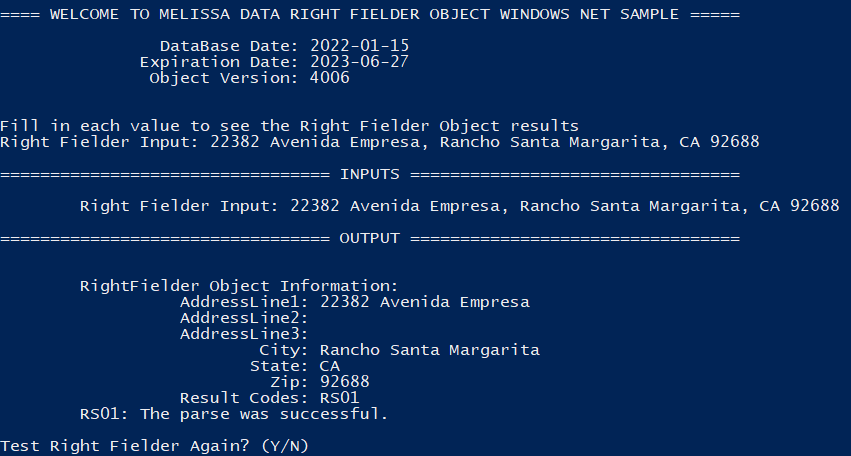
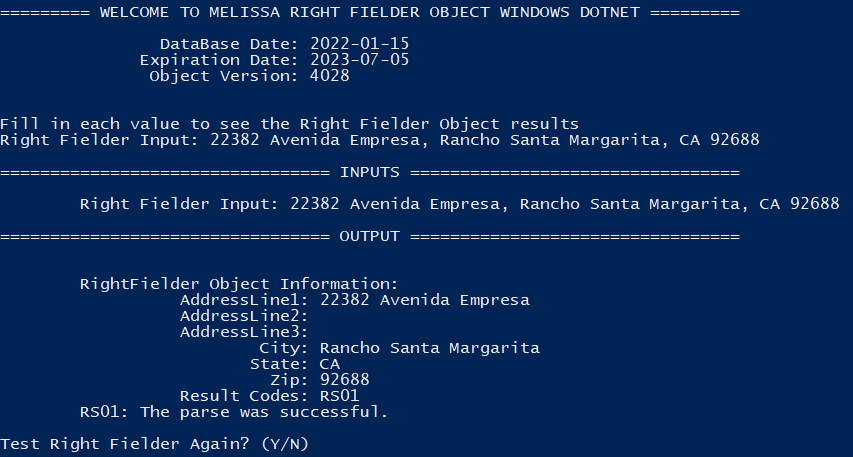
Commit C# Dotnet code for Right Fielder Object with release notes

diff --git a/MelissaRightFielderObjectWindowsDotnet/Program.cs b/MelissaRightFielderObjectWindowsDotnet/Program.cs
@@ -5,7 +5,7 @@ using System.IO;
 using System.Reflection;
 using MelissaData;
 
-namespace MelissaDataRightFielderObjectWindowsNETSample
+namespace MelissaRightFielderObjectWindowsDotnet
 {
   class Program
   {
@@ -51,7 +51,7 @@ namespace MelissaDataRightFielderObjectWindowsNETSample
 
     static void RunAsConsole(string license, string testInput, string dataPath)
     {
-      Console.WriteLine("\n\n==== WELCOME TO MELISSA DATA RIGHT FIELDER OBJECT WINDOWS NET SAMPLE =====\n");
+      Console.WriteLine("\n\n========= WELCOME TO MELISSA RIGHT FIELDER OBJECT WINDOWS DOTNET =========\n");
 
       RightFielderObject rightFielderObject = new RightFielderObject(license, dataPath);
 
@@ -83,15 +83,6 @@ namespace MelissaDataRightFielderObjectWindowsNETSample
         // Print user input
         Console.WriteLine("\n================================= INPUTS =================================\n");
         Console.WriteLine($"\tRight Fielder Input: {dataContainer.Input}");
-        //Console.WriteLine($"\t               Address: {dataContainer.Address}");
-        //Console.WriteLine($"\t          CityStateZip: {dataContainer.CityStateZip}");
-        //Console.WriteLine($"\t               Company: {dataContainer.Company}");
-        //Console.WriteLine($"\t               Country: {dataContainer.Country}");
-        //Console.WriteLine($"\t            Department: {dataContainer.Department}");
-        //Console.WriteLine($"\t                 Email: {dataContainer.Email}");
-        //Console.WriteLine($"\t              FullName: {dataContainer.FullName}");
-        //Console.WriteLine($"\t                 Phone: {dataContainer.Phone}");
-        //Console.WriteLine($"\t                   Url: {dataContainer.Url}");
 
         // Execute Right Fielder Object
         rightFielderObject.ExecuteObjectAndResultCodes(ref dataContainer);
@@ -162,16 +153,16 @@ namespace MelissaDataRightFielderObjectWindowsNETSample
           }
         }
       }
-      Console.WriteLine("\n================ THANK YOU FOR USING MELISSA DATA NET OBJECT ===============\n");
+      Console.WriteLine("\n================ THANK YOU FOR USING MELISSA DOTNET OBJECT ===============\n");
     }
   }
 
   class RightFielderObject
   {
-    // Path to right fielder object data files (.dat, etc)
+    // Path to Right Fielder Object data files (.dat, etc)
     string dataFilePath;
 
-    // Create instance of Melissa Data Right Fielder Object
+    // Create instance of Melissa Right Fielder Object
     public mdRightFielder mdRightFielder = new mdRightFielder();
 
     public RightFielderObject(string license, string dataPath)
@@ -195,7 +186,7 @@ namespace MelissaDataRightFielderObjectWindowsNETSample
       Console.WriteLine($"              Expiration Date: {mdRightFielder.GetLicenseExpirationDate()}");
 
       /**
-       * This number should match with file properties of the Melissa Data Object binary file.
+       * This number should match with file properties of the Melissa Object binary file.
        * If TEST appears with the build number, there may be a license key issue.
        */
       Console.WriteLine($"               Object Version: {mdRightFielder.GetBuildNumber()}\n");
@@ -204,15 +195,15 @@ namespace MelissaDataRightFielderObjectWindowsNETSample
     // This will call the lookup function to process the input as well as generate the result codes
     public void ExecuteObjectAndResultCodes(ref DataContainer data)
     {
-      // These are the configuarble pieces of the right fielder object. We are setting what kind of information we want to be looked up
+      // These are the configuarble pieces of the Right Fielder Object. We are setting what kind of information we want to be looked up
       // SetUserPattern Method - Ex. Social Security Number
 
       //mdRightFielder.SetUserPattern("SSN", "[0-9]{3}-[0-9]{2}-[0-9]{4}");
       mdRightFielder.Parse(data.Input);
       data.ResultCodes = mdRightFielder.GetResults();
 
-      // ResultsCodes explain any issues phone object has with the object.
-      // List of result codes for Phone object
+      // ResultsCodes explain any issues Right Fielder Object has with the object.
+      // List of result codes for Right Fielder Object
       // https://wiki.melissadata.com/?title=Result_Code_Details#RightFielder_Object
     }
   }

diff --git a/README.md b/README.md
@@ -1,8 +1,12 @@
-# Melissa Data Right Fielder Object Windows Net Sample
+# Melissa - Right Fielder Object Windows Dotnet
 
 ## Purpose
 
-This is a sample of the Melissa Data Right Fielder Object using C#
+This code showcases the Melissa Right Fielder Object using C#.
+
+Please feel free to copy or embed this code to your own project. Happy coding!
+
+For the latest Melissa Right Fielder Object release notes, please visit: https://releasenotes.melissa.com/on-premise-api/rightfielder-object/
 
 The console will ask the user for:
 
@@ -27,7 +31,7 @@ And return
 
 #### mdRightFielder.dll
 
-This is the c++ code of the Melissa Data Object.
+This is the c++ code of the Melissa Object.
 
 #### Data File(s)
 
@@ -96,20 +100,20 @@ Melissa Updater is a CLI application allowing the user to update their Melissa a
 	- It will handle all of the data download/path and dll(s) for you. 
 2.  If you already have the latest DQS Release (ZIP), you can find the data file(s) and dll(s) in there
 	- Use the location of where you copied/installed the data and update the "$DataPath" variable in the powershell script.
-	- Copy all the dll(s) mentioned above into the `MelissaDataRightFielderObjectWindowsNETSample` project folder.
+	- Copy all the dll(s) mentioned above into the `MelissaRightFielderObjectWindowsDotnet` project folder.
 
 ----------------------------------------
 
 #### Configure Target Framework
 
-Depending on your target .NET framework, you may need to configure the powershell script. In order to do this, open up the `MelissaDataRightFielderObjectWindowsNETSample.ps1` for editing, proceed to the bottom of the script where you will find this section of code.
+Depending on your target .NET framework, you may need to configure the powershell script. In order to do this, open up the `MelissaRightFielderObjectWindowsDotnet.ps1` for editing, proceed to the bottom of the script where you will find this section of code.
 
 Default set for .NET 7.0
 ```
-dotnet publish -f="net7.0" -c Release -o $BuildPath MelissaDataRightFielderObjectWindowsNETSample\MelissaDataRightFielderObjectWindowsNETSample.csproj
-#dotnet publish -f="net6.0" -c Release -o $BuildPath MelissaDataRightFielderObjectWindowsNETSample\MelissaDataRightFielderObjectWindowsNETSample.csproj
-#dotnet publish -f="net5.0" -c Release -o $BuildPath MelissaDataRightFielderObjectWindowsNETSample\MelissaDataRightFielderObjectWindowsNETSample.csproj
-#dotnet publish -f="netcoreapp3.1" -c Release -o $BuildPath MelissaDataRightFielderObjectWindowsNETSample\MelissaDataRightFielderObjectWindowsNETSample.csproj
+dotnet publish -f="net7.0" -c Release -o $BuildPath MelissaRightFielderObjectWindowsDotnet\MelissaRightFielderObjectWindowsDotnet.csproj
+#dotnet publish -f="net6.0" -c Release -o $BuildPath MelissaRightFielderObjectWindowsDotnet\MelissaRightFielderObjectWindowsDotnet.csproj
+#dotnet publish -f="net5.0" -c Release -o $BuildPath MelissaRightFielderObjectWindowsDotnet\MelissaRightFielderObjectWindowsDotnet.csproj
+#dotnet publish -f="netcoreapp3.1" -c Release -o $BuildPath MelissaRightFielderObjectWindowsDotnet\MelissaRightFielderObjectWindowsDotnet.csproj
 ```
 The target framework is specified with the -f flag found in the command line. If you wish to use any version besides .NET 7.0, please uncomment the line containing that framework and comment out the line containing the .NET 7.0 framework (# to comment).
 
@@ -120,32 +124,32 @@ Parameters:
  	
   This is convenient when you want to get results for a specific right fielder input in one run instead of testing multiple right fielder inputs in interactive mode.  
 
-- -license (optional): a license string to test the right fielder object  
+- -license (optional): a license string to test the Right Fielder Object  
 - -quiet (optional): add to the command if you do not want to get any console output from the Melissa Updater
 
 When you have modified the script to match your data location, let's run the script.
 There are two modes:
 - Interactive 
 
-	The script will prompt the user for the right fielder input, then use the provided right fielder input to test the Right Fielder object. For example:
+	The script will prompt the user for the right fielder input, then use the provided right fielder input to test the Right Fielder Object. For example:
 	```
-	$ .\MelissaDataRightFielderObjectWindowsNETSample.ps1
+	$ .\MelissaRightFielderObjectWindowsDotnet.ps1
 	```
     For quiet mode:
     ```
-    $ .\MelissaDataRightFielderObjectWindowsNETSample.ps1 -quiet
+    $ .\MelissaRightFielderObjectWindowsDotnet.ps1 -quiet
     ```
 - Command Line 
 
-	You can pass a right fielder input in ```-rfinput``` parameter and a license string in ```-license``` parameter to test right fielder object. For example:
+	You can pass a right fielder input in ```-rfinput``` parameter and a license string in ```-license``` parameter to test the Right Fielder Object. For example:
 	```
-    $ .\MelissaDataRightFielderObjectWindowsNETSample.ps1 -rfinput "22382 Avenida Empresa, Rancho Santa Margarita, CA 92688"
-	$ .\MelissaDataRightFielderObjectWindowsNETSample.ps1 -rfinput "22382 Avenida Empresa, Rancho Santa Margarita, CA 92688" -license "<your_license_string>" 
+    $ .\MelissaRightFielderObjectWindowsDotnet.ps1 -rfinput "22382 Avenida Empresa, Rancho Santa Margarita, CA 92688"
+	$ .\MelissaRightFielderObjectWindowsDotnet.ps1 -rfinput "22382 Avenida Empresa, Rancho Santa Margarita, CA 92688" -license "<your_license_string>" 
     ```
 	For quiet mode:
     ```
-    $ .\MelissaDataRightFielderObjectWindowsNETSample.ps1 -rfinput "22382 Avenida Empresa, Rancho Santa Margarita, CA 92688" -quiet
-	$ .\MelissaDataRightFielderObjectWindowsNETSample.ps1 -rfinput "22382 Avenida Empresa, Rancho Santa Margarita, CA 92688" -license "<your_license_string>" -quiet
+    $ .\MelissaRightFielderObjectWindowsDotnet.ps1 -rfinput "22382 Avenida Empresa, Rancho Santa Margarita, CA 92688" -quiet
+	$ .\MelissaRightFielderObjectWindowsDotnet.ps1 -rfinput "22382 Avenida Empresa, Rancho Santa Margarita, CA 92688" -license "<your_license_string>" -quiet
     ```
 This is the expected output from a successful setup for interactive mode:
 
@@ -153,7 +157,7 @@ This is the expected output from a successful setup for interactive mode:
 
 ## Troubleshooting
 
-Troubleshooting for errors found while running your sample program.
+Troubleshooting for errors found while running your program.
 
 ### C# Errors:
 
@@ -166,8 +170,6 @@ Troubleshooting for errors found while running your sample program.
 
 ## Contact Us
 
-For free technical support, please call us at 800-MELISSA ext. 4
-(800-635-4772 ext. 4) or email us at tech@MelissaData.com.
+For free technical support, please call us at 800-MELISSA ext. 4 (800-635-4772 ext. 4) or email us at tech@melissa.com.
 
-To purchase this product, contact Melissa Data sales department at
-800-MELISSA ext. 3 (800-635-4772 ext. 3).
+To purchase this product, contact the Melissa sales department at 800-MELISSA ext. 3 (800-635-4772 ext. 3).

diff --git a/LICENSE.md b/LICENSE.md
@@ -1,0 +1,21 @@
+MIT License
+
+Copyright (c) Melissa Data Corporation
+
+Permission is hereby granted, free of charge, to any person obtaining a copy
+of this software and associated documentation files (the "Software"), to deal
+in the Software without restriction, including without limitation the rights
+to use, copy, modify, merge, publish, distribute, sublicense, and/or sell
+copies of the Software, and to permit persons to whom the Software is
+furnished to do so, subject to the following conditions:
+
+The above copyright notice and this permission notice shall be included in all
+copies or substantial portions of the Software.
+
+THE SOFTWARE IS PROVIDED "AS IS", WITHOUT WARRANTY OF ANY KIND, EXPRESS OR
+IMPLIED, INCLUDING BUT NOT LIMITED TO THE WARRANTIES OF MERCHANTABILITY,
+FITNESS FOR A PARTICULAR PURPOSE AND NONINFRINGEMENT. IN NO EVENT SHALL THE
+AUTHORS OR COPYRIGHT HOLDERS BE LIABLE FOR ANY CLAIM, DAMAGES OR OTHER
+LIABILITY, WHETHER IN AN ACTION OF CONTRACT, TORT OR OTHERWISE, ARISING FROM,
+OUT OF OR IN CONNECTION WITH THE SOFTWARE OR THE USE OR OTHER DEALINGS IN THE
+SOFTWARE.
